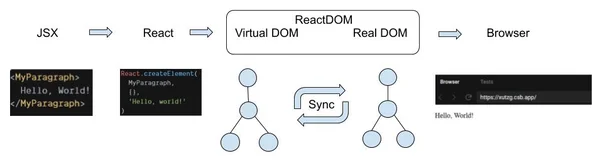
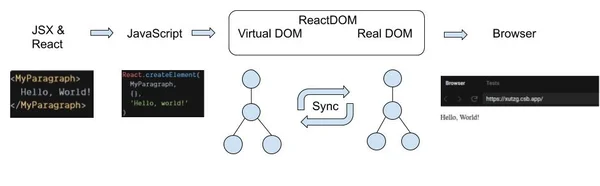
feat(articles): add v17 to react and react-dom article

diff --git a/src/pages/react-and-reactdom/index.md b/src/pages/react-and-reactdom/index.md
@@ -1,7 +1,7 @@
 ---
 title: How React and ReactDOM interact together
 date: '2020-07-16'
-updated: '2020-07-16'
+updated: '2020-09-23'
 spoiler: Let's break the ice between them.
 description: Learn how React interact with ReactDOM.
 slug: 'how-react-and-reactdom-interact-together'
@@ -71,7 +71,7 @@ const App = () => {
 ReactDOM.render(<App />, document.getElementById('root'))
 ```
 
-Since we used JSX, it will be compiled into the following **React** code:
+Since we used JSX, it will be compiled into the following **JavaScript** code:
 
 ```jsx
 var MyParagraph = function (_ref) {
@@ -117,6 +117,37 @@ This is another interesting topic that surely would deserve an article of its ow
 As seen previously, **ReactDOM** & **ReactDOMServer** are the bridge between your React components and your **browser**.
 
 **ReactNative** is quite different: it is the bridge between your React components and the smartphones OS, namely **Android** and **iOS**. Unlike ReactDOM that will output an HTML DOM, ReactNative will turn your React components into **native** elements, that Android & iOS can understand. The [ReactNative docs](https://reactnative.dev/docs/intro-react-native-components) page about this compilation step illustrates it very well.
+
+## React v17
+
+React v17 is bringing small changes under the hood, among which a new version of the **JSX transform**, which will probably make some parts of this article obsolete 😅
+
+One of the main feature of this new version is that we will be able to use **JSX** without having **React** in the scope. Apart from that, there is no other change on the developer side. Most
+of them will happen under the hood.
+
+Basically, it will provide an encapsulation on top of **React**, so instead of having our current **JSX + React** compiled into this JavaScript bit:
+
+```jsx
+// Transpiled file with old JSX Transform
+import React from 'react'
+
+function App() {
+  return React.createElement(MyParagraph, {}, 'Hello, world!')
+}
+```
+
+The new **JSX Transform** will output this:
+
+```jsx
+// Transpiled file with new JSX Transform
+import { jsx as _jsx } from 'react/jsx-runtime'
+
+function App() {
+  return _jsx(MyParagraph, { children: 'Hello, world!' })
+}
+```
+
+You can find more about this new release on [React official site](https://reactjs.org/blog/2020/09/22/introducing-the-new-jsx-transform.html).
 
 ## TL;DR
 
